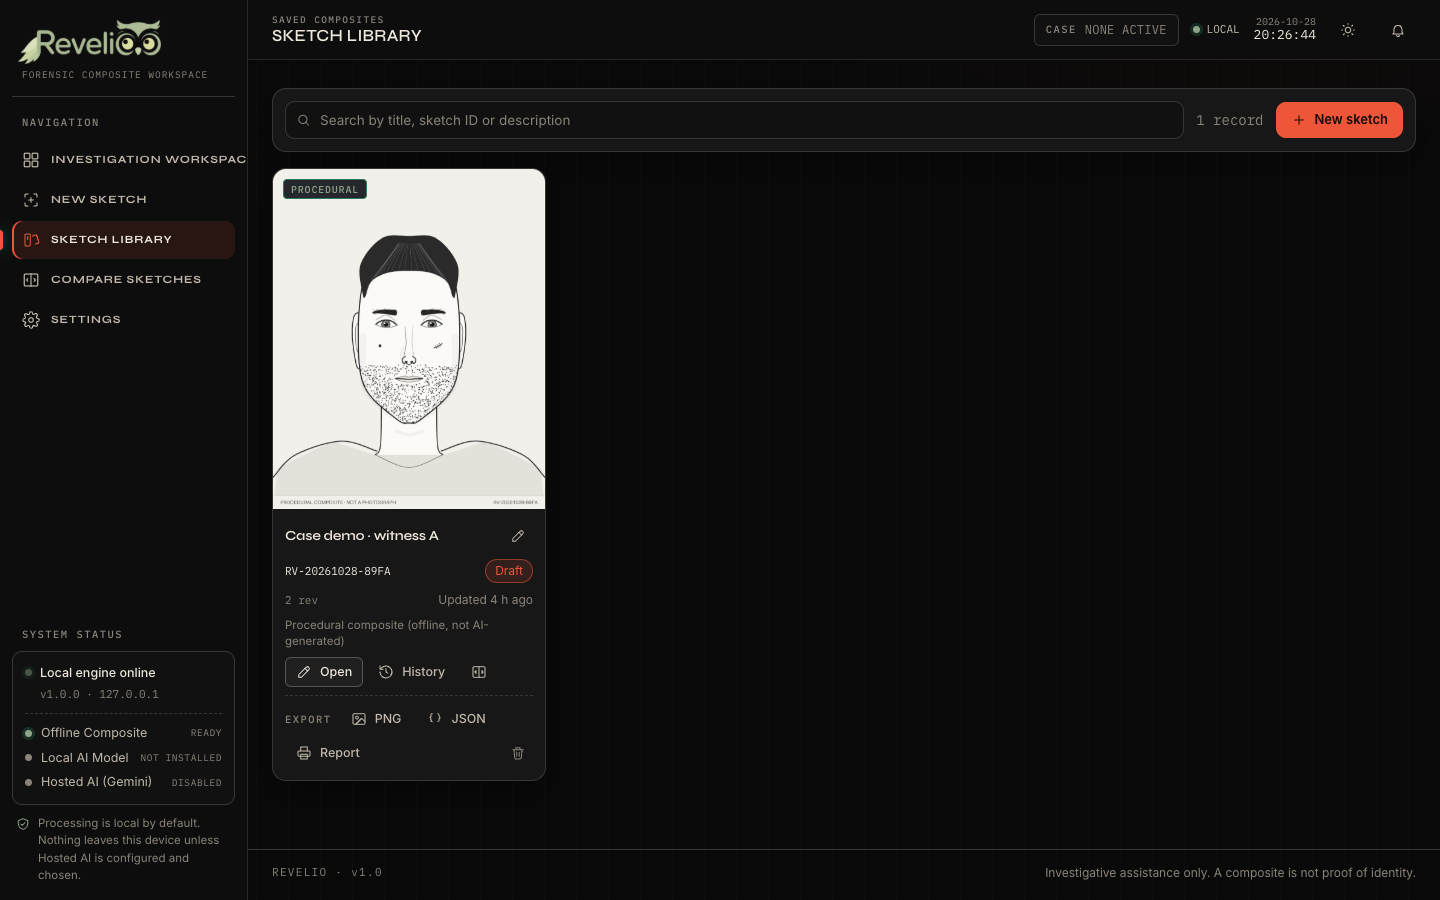
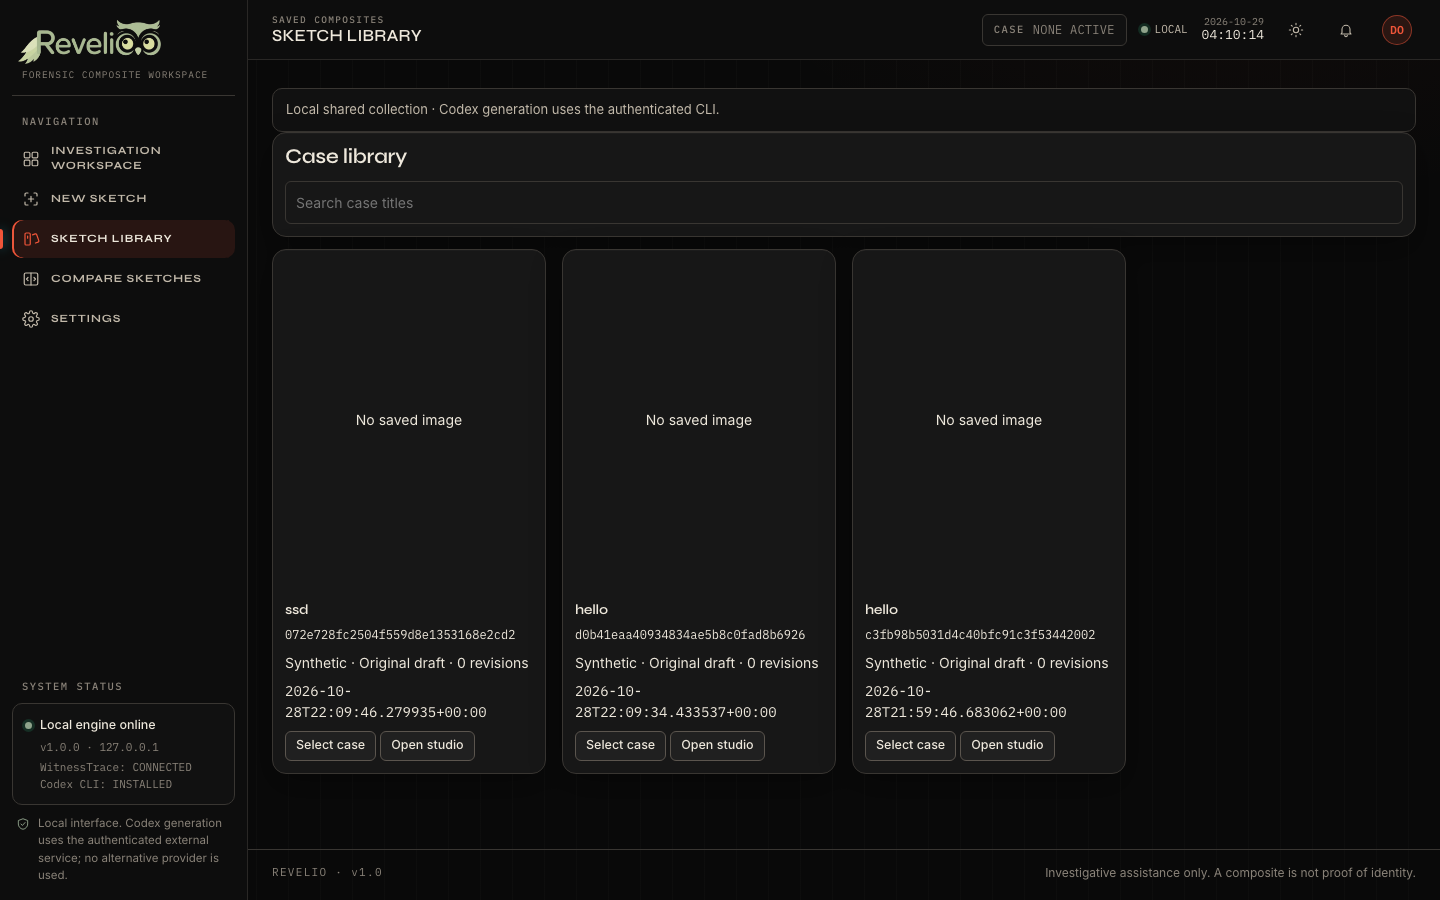
docs: replace cartoon screenshots with current app captures
Retake landing, workspace, studio, library and settings screenshots from the
integrated app with the pencil-sketch landing demos; drop the procedural
composites grid and the legacy compare screenshot.

diff --git a/README.md b/README.md
@@ -89,21 +89,19 @@ Building a facial composite from a verbal description is slow. Witnesses remembe
 
 ### Screenshots
 
-| Workspace overview (`/app`) | New sketch editor (`/app#/new`) |
+Captured from the current integrated app (Docker build), with the pencil-sketch landing demos.
+
+| Workspace overview (`/app`) | New sketch studio (`/app#/new`) |
 |---|---|
 | ![Workspace](docs/screenshots/workspace.png) | ![New sketch](docs/screenshots/new-sketch.png) |
-| **Light theme · workspace** | **Light theme · editor** |
+| **Light theme · workspace** | **Light theme · studio** |
 | ![Workspace, light theme](docs/screenshots/workspace-light.png) | ![Editor, light theme](docs/screenshots/new-sketch-light.png) |
 | **Landing · live demo** | **Landing · editor showcase** |
 | ![Landing live demo](docs/screenshots/landing-demo.png) | ![Landing editor showcase](docs/screenshots/landing-editor.png) |
-| **Compare revisions** | **Library** |
-| ![Compare](docs/screenshots/compare.png) | ![Library](docs/screenshots/library.png) |
-| **Settings & providers** | **Landing · light theme** |
-| ![Settings](docs/screenshots/settings.png) | ![Landing, light theme](docs/screenshots/landing-light.png) |
-
-Procedural composites generated from eight different descriptions. The bottom-left one has no hair description, so its hair is drawn as “unspecified”:
-
-![Procedural composites](docs/screenshots/composites.png)
+| **Case library** | **Settings** |
+| ![Library](docs/screenshots/library.png) | ![Settings](docs/screenshots/settings.png) |
+| **Landing · light theme** | |
+| ![Landing, light theme](docs/screenshots/landing-light.png) | |
 
 ---
 
